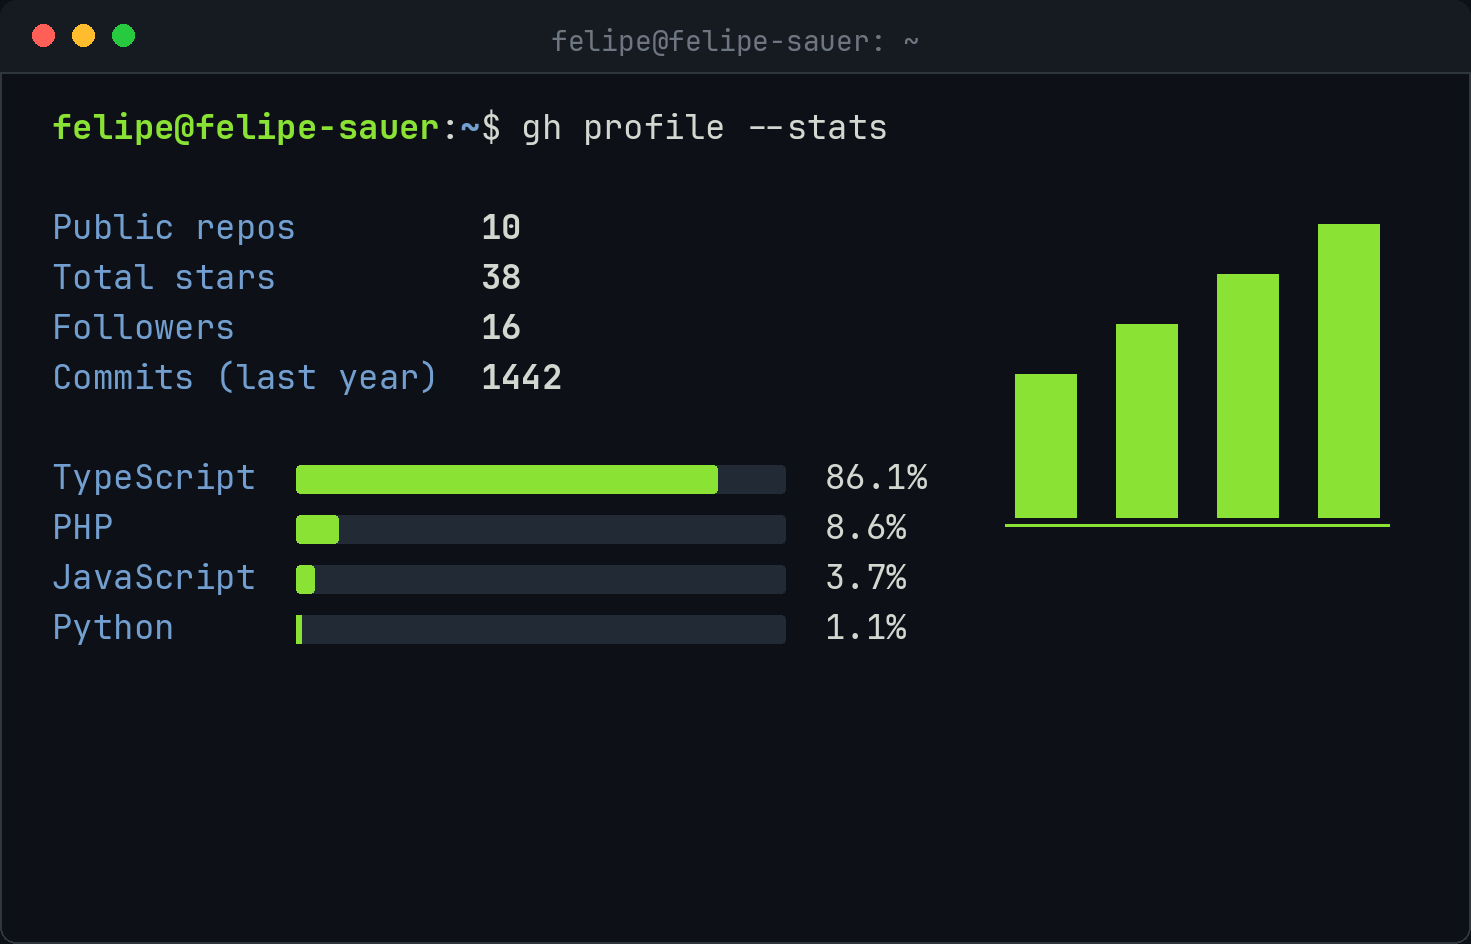
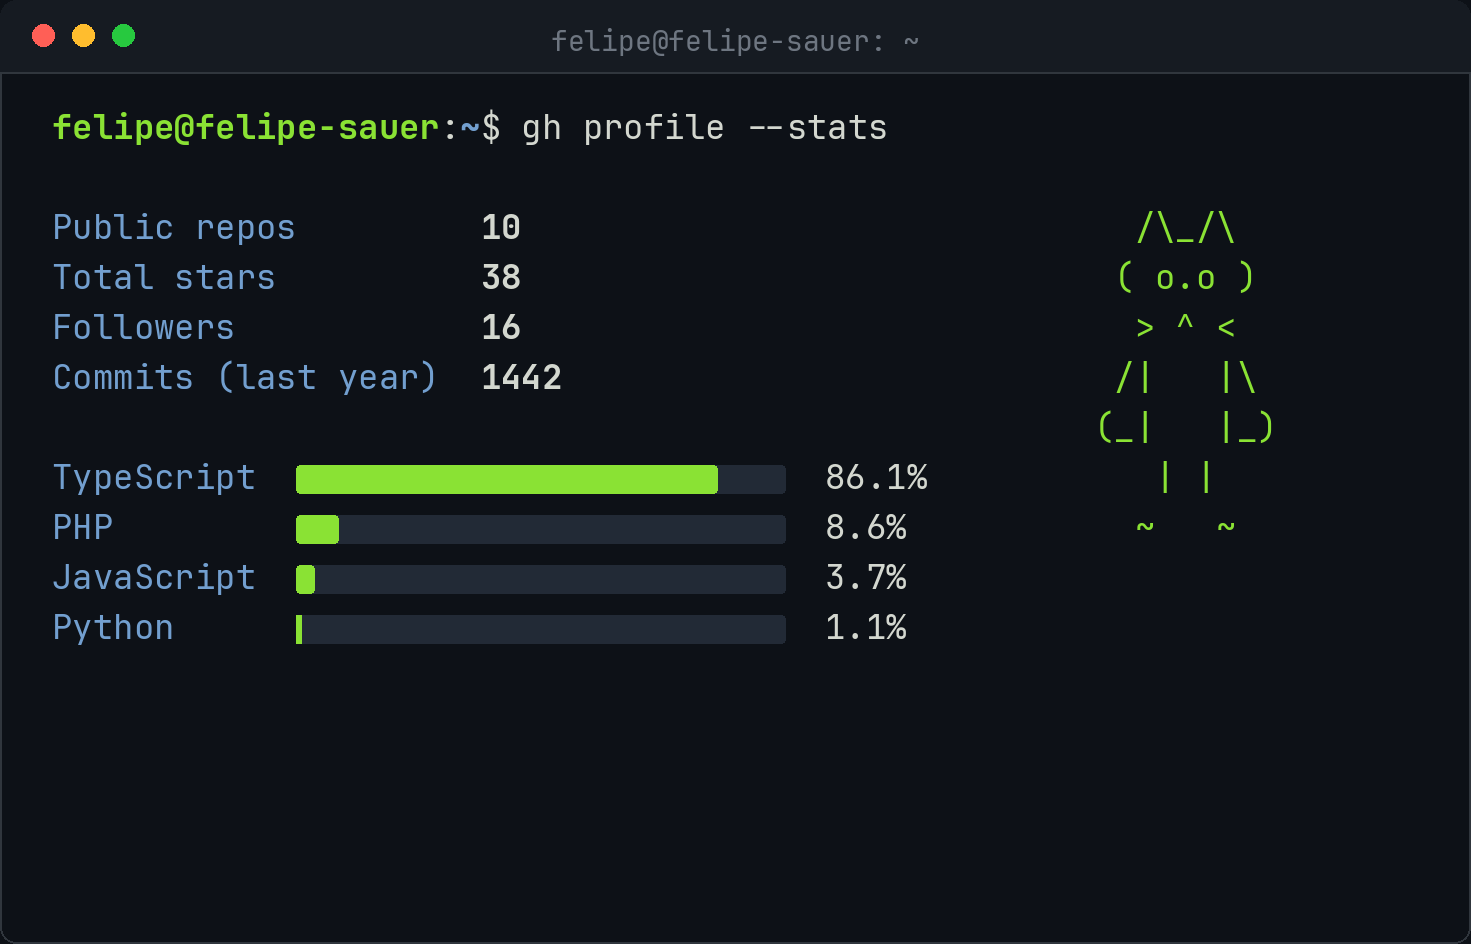
style: gato no lugar do grafico na janela de stats
Mascote caricato no mesmo peso do pinguim do banner, em vez de um
grafico que repetia a informacao ja mostrada pelas barras ao lado.

Changed region(s): [[0.673, 0.215, 0.9483, 0.5837], [0.7648, 0.215, 0.7954, 0.2458]]

diff --git a/profile-assets.py b/profile-assets.py
@@ -69,12 +69,16 @@ NEOFETCH_ART = [
     "    \\___)=(___/     ",
 ]
 
-# Grafico de barras da janela de stats: o equivalente do Tux.
-# Desenhado com retangulos, nao com "█": o bloco nao preenche a entrelinha
-# inteira e as barras saem com emendas horizontais visiveis.
-STATS_BARRAS = [3, 4, 5, 6]     # altura de cada barra, em celulas
-STATS_COLS = 20                 # mesma largura do Tux, em caracteres
-STATS_LINHAS = 7                # mesma altura do Tux, em linhas
+# Mascote da janela de stats, no mesmo peso do pinguim que fica no banner.
+STATS_ART = [
+    "    /\\_/\\       ",
+    "   ( o.o )      ",
+    "    > ^ <       ",
+    "   /|   |\\      ",
+    "  (_|   |_)     ",
+    "     | |        ",
+    "    ~   ~       ",
+]
 
 NEOFETCH_CAMPOS = [
     ("OS", "Full Stack Developer"), ("Host", "Brazil"),
@@ -178,18 +182,13 @@ def stats(tema):
     y = TB + 16 * S
     prompt(d, PADX, y, "gh profile --stats", FS, c, cw); y += LH * 2
 
-    # grafico encostado a direita, espelhando o pinguim que fica a esquerda no banner
-    larg_barra = int(cw * 3)
-    vao = int(cw * 2)
-    total = len(STATS_BARRAS) * larg_barra + (len(STATS_BARRAS) - 1) * vao
-    ax = W_BOX - PADX - int(cw * 2) - total
-    base = y + STATS_LINHAS * LH - int(LH * 0.6)
-    for i, alt in enumerate(STATS_BARRAS):
-        x0 = ax + i * (larg_barra + vao)
-        y0 = base - alt * LH
-        d.rectangle([x0, y0, x0 + larg_barra, base - int(LH * 0.15)], fill=c["VERDE"])
-    d.rectangle([ax - int(cw * 0.5), base, ax + total + int(cw * 0.5), base + max(2, S)],
-                fill=c["VERDE"])
+    # mascote encostado a direita, espelhando o pinguim que fica a esquerda no banner
+    ax = W_BOX - PADX - int(max(len(l) for l in STATS_ART) * cw) - int(cw * 2)
+    ay = y
+    for l in STATS_ART:
+        d.text((ax, ay), l, font=f(FONT_R, FS), fill=c["VERDE"])
+        ay += LH
+
     for k, v in STATS:
         d.text((PADX, y), k.ljust(lab_w), font=f(FONT_R, FS), fill=c["AZUL"])
         d.text((PADX + (lab_w + 2) * cw, y), v, font=f(FONT_B, FS), fill=c["FG"])

diff --git a/README.md b/README.md
@@ -1,9 +1,9 @@
 <div align="center">
 
 <picture>
-  <source media="(prefers-color-scheme: dark)" srcset="https://raw.githubusercontent.com/felipesauer/felipesauer/main/assets/banner.png?v=20260922123025">
-  <source media="(prefers-color-scheme: light)" srcset="https://raw.githubusercontent.com/felipesauer/felipesauer/main/assets/banner-light.png?v=20260922123025">
-  <img src="https://raw.githubusercontent.com/felipesauer/felipesauer/main/assets/banner.png?v=20260922123025" alt="neofetch output for Felipe Sauer: Full Stack Developer, Brazil, TypeScript and PHP, bash on Linux. Backend Node.js, Laravel, REST APIs. Frontend React, Next.js, TailwindCSS. Database PostgreSQL, MySQL, Neo4j. Infra Docker, GitHub Actions, Cloudflare. Quality TypeScript strict, PHPStan max, tests." width="735">
+  <source media="(prefers-color-scheme: dark)" srcset="https://raw.githubusercontent.com/felipesauer/felipesauer/main/assets/banner.png?v=20260922124051">
+  <source media="(prefers-color-scheme: light)" srcset="https://raw.githubusercontent.com/felipesauer/felipesauer/main/assets/banner-light.png?v=20260922124051">
+  <img src="https://raw.githubusercontent.com/felipesauer/felipesauer/main/assets/banner.png?v=20260922124051" alt="neofetch output for Felipe Sauer: Full Stack Developer, Brazil, TypeScript and PHP, bash on Linux. Backend Node.js, Laravel, REST APIs. Frontend React, Next.js, TailwindCSS. Database PostgreSQL, MySQL, Neo4j. Infra Docker, GitHub Actions, Cloudflare. Quality TypeScript strict, PHPStan max, tests." width="735">
 </picture>
 
 <br><br>
@@ -106,9 +106,9 @@ Safe access to **nested data via dot notation** across JSON, YAML, XML, INI, ENV
 <div align="center">
 
 <picture>
-  <source media="(prefers-color-scheme: dark)" srcset="https://raw.githubusercontent.com/felipesauer/felipesauer/main/assets/stats.png?v=20260922123025">
-  <source media="(prefers-color-scheme: light)" srcset="https://raw.githubusercontent.com/felipesauer/felipesauer/main/assets/stats-light.png?v=20260922123025">
-  <img src="https://raw.githubusercontent.com/felipesauer/felipesauer/main/assets/stats.png?v=20260922123025" alt="GitHub stats: 10 public repositories, 38 stars, 16 followers, 1442 commits in the last year. Languages: TypeScript 86.1 percent, PHP 8.6 percent, JavaScript 3.7 percent, Python 1.1 percent" width="735">
+  <source media="(prefers-color-scheme: dark)" srcset="https://raw.githubusercontent.com/felipesauer/felipesauer/main/assets/stats.png?v=20260922124051">
+  <source media="(prefers-color-scheme: light)" srcset="https://raw.githubusercontent.com/felipesauer/felipesauer/main/assets/stats-light.png?v=20260922124051">
+  <img src="https://raw.githubusercontent.com/felipesauer/felipesauer/main/assets/stats.png?v=20260922124051" alt="GitHub stats: 10 public repositories, 38 stars, 16 followers, 1442 commits in the last year. Languages: TypeScript 86.1 percent, PHP 8.6 percent, JavaScript 3.7 percent, Python 1.1 percent" width="735">
 </picture>
 
 </div>
